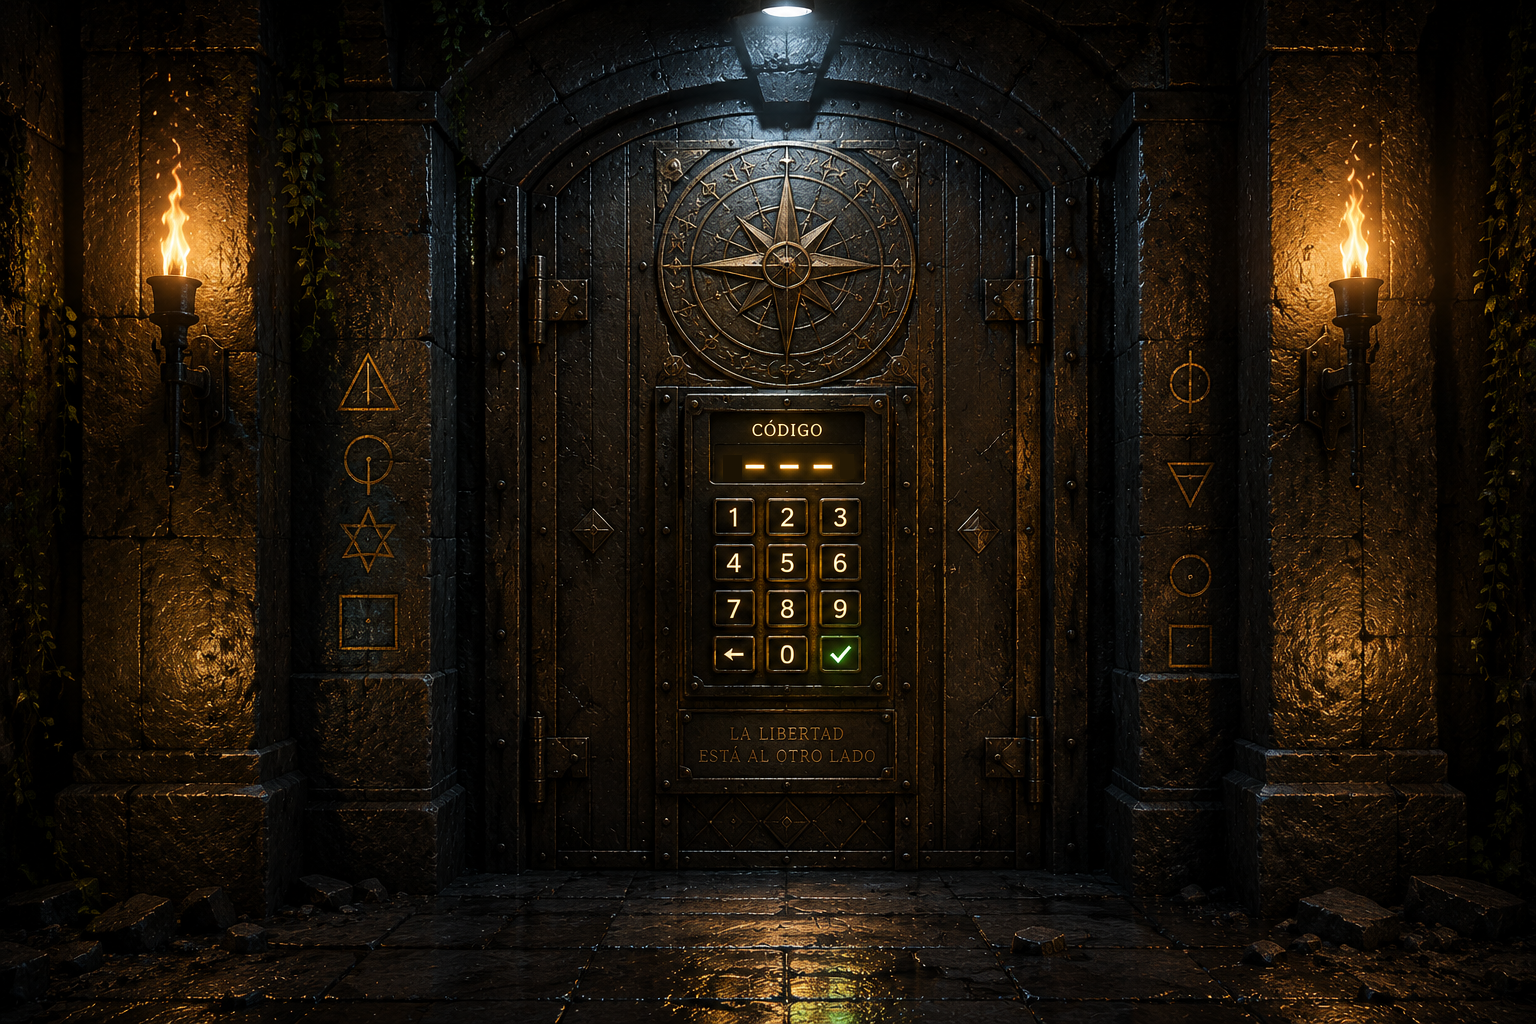
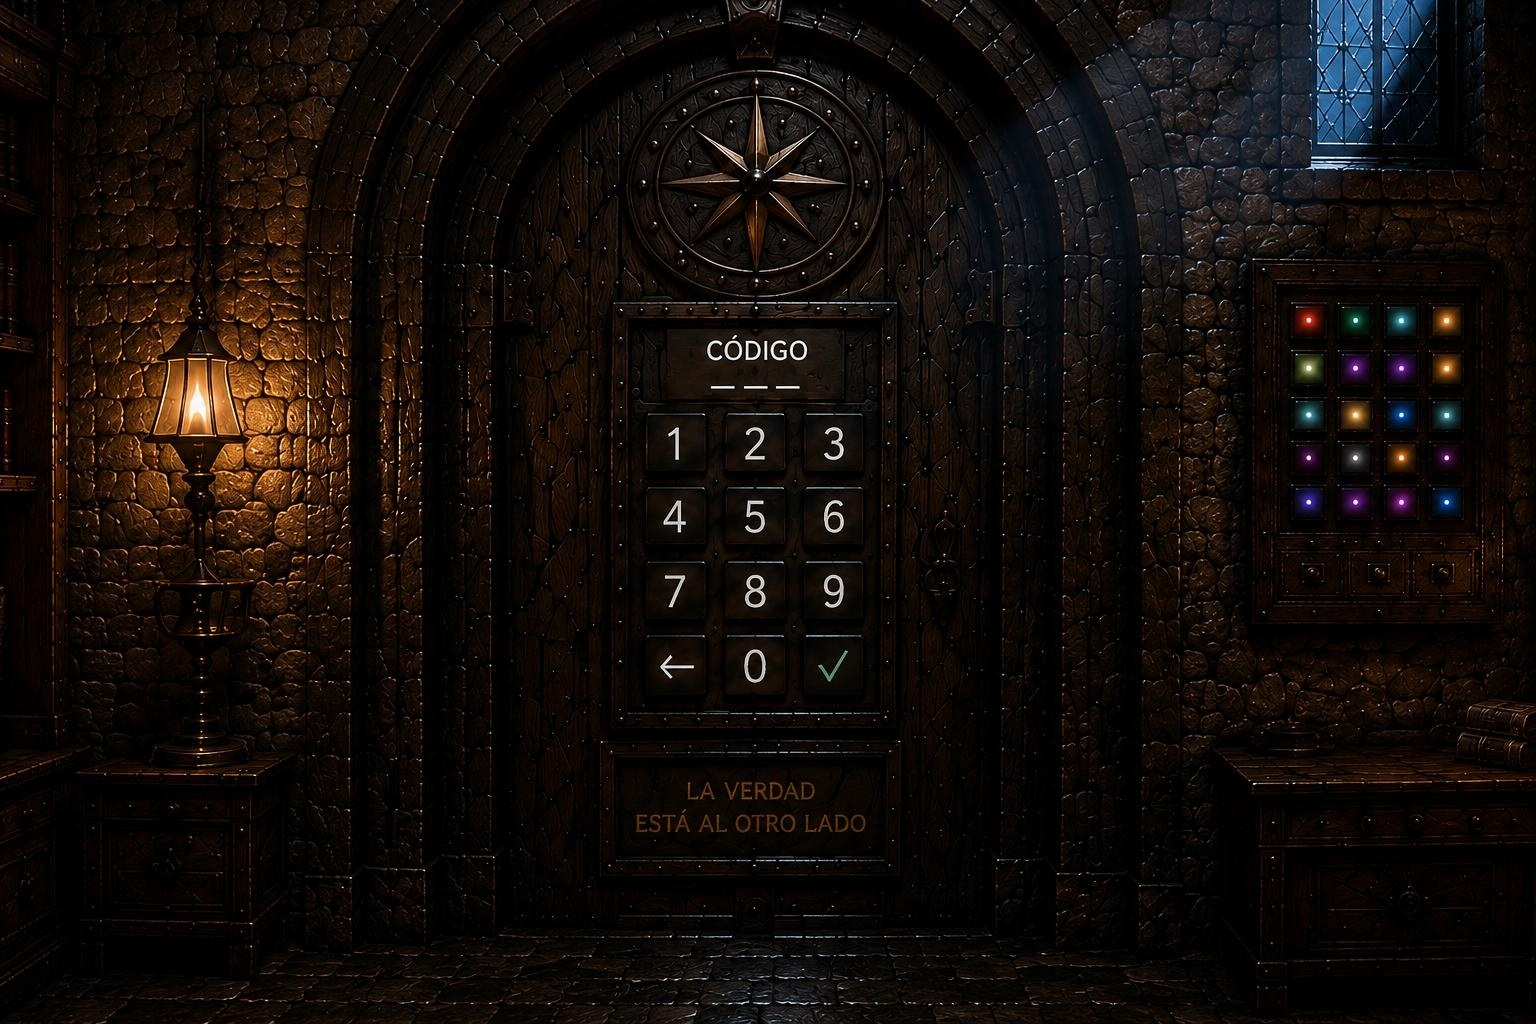
changes

diff --git a/puzzleSymbols.js b/puzzleSymbols.js
@@ -1,0 +1,105 @@
+import { INTERFACE_COLORS } from "./config.js"
+import { isMouseInsideZone, drawBeveledButton } from "./helpers.js"
+import { getSymbolsInteractions } from "./interactions.js"
+
+/**
+ * 🔮 DIBUJAR EL PUZZLE DE SÍMBOLOS (Componente Autónomo Canvas - Coordenadas Fijas)
+ */
+export function drawSymbolsPuzzle(canvasContext, canvasElement, state, mouseX, mouseY) {
+    state.updateShake();
+
+    const padWidth = 420;
+    const padHeight = 280;
+
+    // 🧠 EFECTO SHAKE (Vibración matemática horizontal)
+    let offsetX = 0;
+    if (state.symbolsShakeTimer > 0) {
+        offsetX = Math.sin(state.symbolsShakeTimer * 0.8) * 8;
+    }
+
+    // Usamos tus coordenadas exactas
+    const padLeftX = 878 + offsetX;
+    const padTopY = 290;
+
+    // 1. Fondo oscuro translúcido
+    canvasContext.fillStyle = "rgba(10, 10, 10, 0.8)";
+    canvasContext.fillRect(0, 0, canvasElement.width, canvasElement.height);
+
+    // 2. El panel con esquinas biseladas en la posición fija
+    canvasContext.beginPath();
+    canvasContext.moveTo(padLeftX + 18, padTopY);
+    canvasContext.lineTo(padLeftX + padWidth - 18, padTopY);
+    canvasContext.lineTo(padLeftX + padWidth, padTopY + 18);
+    canvasContext.lineTo(padLeftX + padWidth, padTopY + padHeight - 18);
+    canvasContext.lineTo(padLeftX + padWidth - 18, padTopY + padHeight);
+    canvasContext.lineTo(padLeftX + 18, padTopY + padHeight);
+    canvasContext.lineTo(padLeftX, padTopY + padHeight - 18);
+    canvasContext.lineTo(padLeftX, padTopY + 18);
+    canvasContext.closePath();
+
+    const gradient = canvasContext.createLinearGradient(padLeftX, padTopY, padLeftX, padTopY + padHeight);
+    gradient.addColorStop(0, "#3a3a3a");
+    gradient.addColorStop(1, "#1b1b1b");
+    canvasContext.fillStyle = gradient;
+    canvasContext.fill();
+
+    canvasContext.strokeStyle = "#6b6b6b";
+    canvasContext.lineWidth = 2;
+    canvasContext.stroke();
+
+    canvasContext.textAlign = "center";
+    canvasContext.textBaseline = "middle";
+
+    // 3. Título del puzzle (Centrado en el ancho del panel)
+    canvasContext.fillStyle = "#d6c7a1";
+    canvasContext.font = "bold 16px 'Georgia', serif";
+    canvasContext.fillText("COMBINACIÓN DE RUNAS", padLeftX + padWidth / 2, padTopY + 35);
+
+    // 4. Mostrar combinación actual
+    const symbolMap = { 1: "☀️", 2: "🔺", 3: "✦", 4: "🌙" };
+    const currentCombinationText = state.symbolsInput.map(id => symbolMap[id]).join(" - ");
+
+    canvasContext.fillStyle = "#e0d2a8";
+    canvasContext.font = "18px Arial";
+    canvasContext.fillText(currentCombinationText || "(Pulsa los símbolos en orden)", padLeftX + padWidth / 2, padTopY + 75);
+
+    // 5. Dibujar botones interactivos en coordenadas fijas
+    const symbolsZones = getSymbolsInteractions(canvasElement);
+
+    symbolsZones.forEach(zone => {
+        const adjustedZone = { ...zone, x: zone.x + offsetX };
+        const isHovered = isMouseInsideZone(state.mouseX, state.mouseY, adjustedZone);
+
+        if (adjustedZone.label === "✕") {
+            canvasContext.fillStyle = isHovered ? "#ff5a5a" : "#c9b98a";
+            canvasContext.font = "bold 22px Arial";
+            canvasContext.fillText(adjustedZone.label, adjustedZone.x + adjustedZone.width / 2, adjustedZone.y + adjustedZone.height / 2);
+        } else if (adjustedZone.label === "⚙️ Ejecutar") {
+            let customColors = { ...INTERFACE_COLORS };
+            customColors.BUTTON_BACKGROUND_DEFAULT = "#333333";
+            customColors.BUTTON_TEXT_DEFAULT = "#7cffb2";
+            customColors.BUTTON_BORDER_DEFAULT = "#6b6b6b";
+
+            canvasContext.font = "14px monospace";
+            drawBeveledButton(canvasContext, canvasElement, customColors, adjustedZone, isHovered, adjustedZone.label, 6);
+        } else {
+            let customColors = { ...INTERFACE_COLORS };
+            customColors.BUTTON_BACKGROUND_DEFAULT = "#222222";
+            customColors.BUTTON_TEXT_DEFAULT = "#d6c7a1";
+            customColors.BUTTON_BORDER_DEFAULT = "#444444";
+
+            canvasContext.font = "30px Arial";
+            drawBeveledButton(canvasContext, canvasElement, customColors, adjustedZone, isHovered, adjustedZone.label, 8);
+        }
+    });
+
+    // 6. Mensaje de resultado
+    if (state.symbolsResultText !== "") {
+        canvasContext.fillStyle = (state.symbolsResultStatus === "success") ? "#7CFFB2" : "#ff5a5a";
+        canvasContext.font = "bold 15px 'Georgia', serif";
+        canvasContext.fillText(state.symbolsResultText, padLeftX + padWidth / 2, padTopY + padHeight - 25);
+    }
+
+    canvasContext.textAlign = "left";
+    canvasContext.textBaseline = "alphabetic";
+}

diff --git a/stateManager.js b/stateManager.js
@@ -10,6 +10,99 @@ export const gameState = {
 	keypadResultStatus: "",
 	secretCode: "739", // La contraseña se queda protegida dentro de su lógica
 
+
+
+
+
+
+
+
+
+
+
+
+// esto tambien lo añadi
+// =========================================================================
+    // 🧩 NUEVAS PROPIEDADES PARA EL PUZZLE DE SÍMBOLOS (Añadir dentro de gameState)
+    // =========================================================================
+    isSymbolsOpen: false,
+    symbolsInput: [],          
+    symbolsResultText: "",     
+    symbolsResultStatus: "",   
+    symbolsShakeTimer: 0,      
+
+    openSymbols(isOptionsOpen) {
+        if (!this.isSymbolsOpen && !isOptionsOpen) {
+            this.isSymbolsOpen = true;
+            this.symbolsInput = [];
+            this.symbolsResultText = "";
+            this.symbolsResultStatus = "";
+            this.symbolsShakeTimer = 0;
+        }
+    },
+
+    closeSymbols() {
+        this.isSymbolsOpen = false;
+        this.symbolsInput = [];
+        this.symbolsResultText = "";
+        this.symbolsResultStatus = "";
+        this.symbolsShakeTimer = 0;
+    },
+
+    pressSymbol(symbolId) {
+        if (this.symbolsResultStatus === "success") return;
+        this.symbolsInput.push(symbolId);
+        this.symbolsResultText = ""; 
+    },
+
+    checkSymbols() {
+        const correctSequence = [4, 1, 2, 3]; // Luna, Sol, Triángulo, Estrella
+        
+        if (JSON.stringify(this.symbolsInput) === JSON.stringify(correctSequence)) {
+            this.symbolsResultText = "CÓDIGO OBTENIDO: 7";
+            this.symbolsResultStatus = "success";
+        } else {
+            this.symbolsInput = [];
+            this.symbolsResultText = "ERROR: INTÉNTALO DE NUEVO";
+            this.symbolsResultStatus = "error";
+            this.symbolsShakeTimer = 24; // Activa el efecto visual de vibración
+        }
+    },
+
+    updateShake() {
+        if (this.symbolsShakeTimer > 0) {
+            this.symbolsShakeTimer--;
+        }
+    },
+
+
+
+
+
+
+
+
+
+
+
+
+
+
+
+
+
+
+
+
+
+
+
+
+
+
+
+
+
 	// 🚪 Abrir el teclado de forma segura
 	openKeypad(isOptionsOpen) {
 		if (!this.isKeypadOpen && !isOptionsOpen) {

diff --git a/interactions.js b/interactions.js
@@ -188,3 +188,86 @@ export function getRoomInteractions(canvasElement) {
 		]
 	}
 }
+
+
+
+
+
+
+
+
+
+
+
+
+
+
+
+
+
+// añadi esto fabri 
+
+import { gameState } from "./stateManager.js" // Asegúrate de que tienes este import arriba si no existía
+
+// =========================================================================
+// 🎯 INTERACCIONES DEL PUZZLE DE SÍMBOLOS (Añadir al final de interactions.js)
+// =========================================================================
+
+export function getSymbolsInteractions(canvasElement) {
+    const padWidth = 420;
+    const padHeight = 280;
+    const padLeftX = canvasElement.width / 2 - padWidth / 2;
+    const padTopY = canvasElement.height / 2 - padHeight / 2;
+
+    const zones = [];
+
+    // 1. Botón Cerrar (✕) - Arriba a la derecha
+    zones.push({
+        label: "✕",
+        x: padLeftX + padWidth - 35,
+        y: padTopY + 15,
+        width: 25,
+        height: 25,
+        action: () => { gameState.closeSymbols(); }
+    });
+
+    // 2. Botones de los 4 símbolos: ☀️(1), 🔺(2), ✦(3), 🌙(4)
+    const btnSize = 60;
+    const gap = 15;
+    const totalButtonsWidth = (btnSize * 4) + (gap * 3);
+    const startX = canvasElement.width / 2 - totalButtonsWidth / 2;
+    const buttonsY = padTopY + 100;
+
+    const symbols = [
+        { label: "☀️", id: 1 },
+        { label: "🔺", id: 2 },
+        { label: "✦", id: 3 },
+        { label: "🌙", id: 4 }
+    ];
+
+    symbols.forEach((symbol, index) => {
+        zones.push({
+            label: symbol.label,
+            symbolId: symbol.id,
+            x: startX + index * (btnSize + gap),
+            y: buttonsY,
+            width: btnSize,
+            height: btnSize,
+            action: () => { gameState.pressSymbol(symbol.id); }
+        });
+    });
+
+    // 3. Botón Ejecutar (⚙️ Ejecutar) - Abajo en el centro
+    const devBtnWidth = 140;
+    const devBtnHeight = 36;
+    zones.push({
+        label: "⚙️ Ejecutar",
+        x: canvasElement.width / 2 - devBtnWidth / 2,
+        y: padTopY + padHeight - 65,
+        width: devBtnWidth,
+        height: devBtnHeight,
+        action: () => { gameState.checkSymbols(); }
+    });
+
+    return zones;
+}

diff --git a/config.js b/config.js
@@ -60,8 +60,8 @@ export const INTERFACE_DIMENSIONS = {
 	OPTIONS_MODAL_HEIGHT: 220,       // Alto de la caja del menú de sonido
 	MODAL_BUTTON_WIDTH: 160,         // Ancho de los botones de dentro del menú de sonido (MÚSICA y VOLVER)
 	MODAL_BUTTON_HEIGHT: 38,         // Alto de los botones de dentro del menú de sonido
-	NAVIGATION_ARROW_SIZE: 30,       // Tamaño de las flechas blancas para cambiar de habitación
-	ARROW_Y_ROOM_ONE: 360,       // Altura exacta en la pantalla donde se dibuja la flecha en la Habitación 1
+	NAVIGATION_ARROW_SIZE: 20,       // Tamaño de las flechas blancas para cambiar de habitación
+	ARROW_Y_ROOM_ONE: 320,       // Altura exacta en la pantalla donde se dibuja la flecha en la Habitación 1
 	KEYPAD_WIDTH: 270,                           // Ancho total del panel del teclado
 	KEYPAD_HEIGHT: 380,                          // Alto total del panel del teclado
 	KEYPAD_GRID_COLS: 3,                         // Columnas de botones